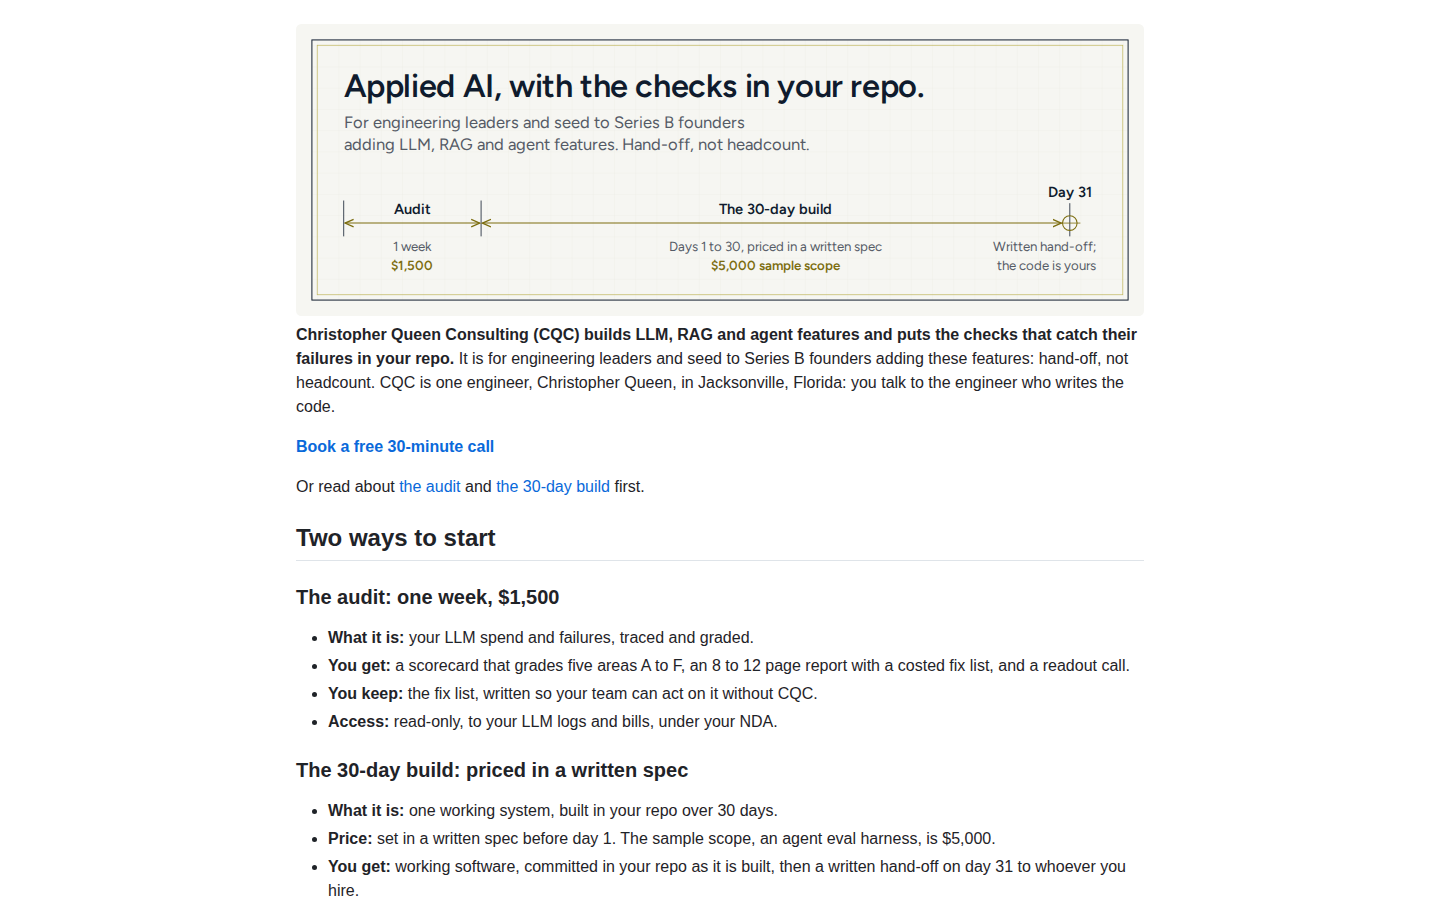
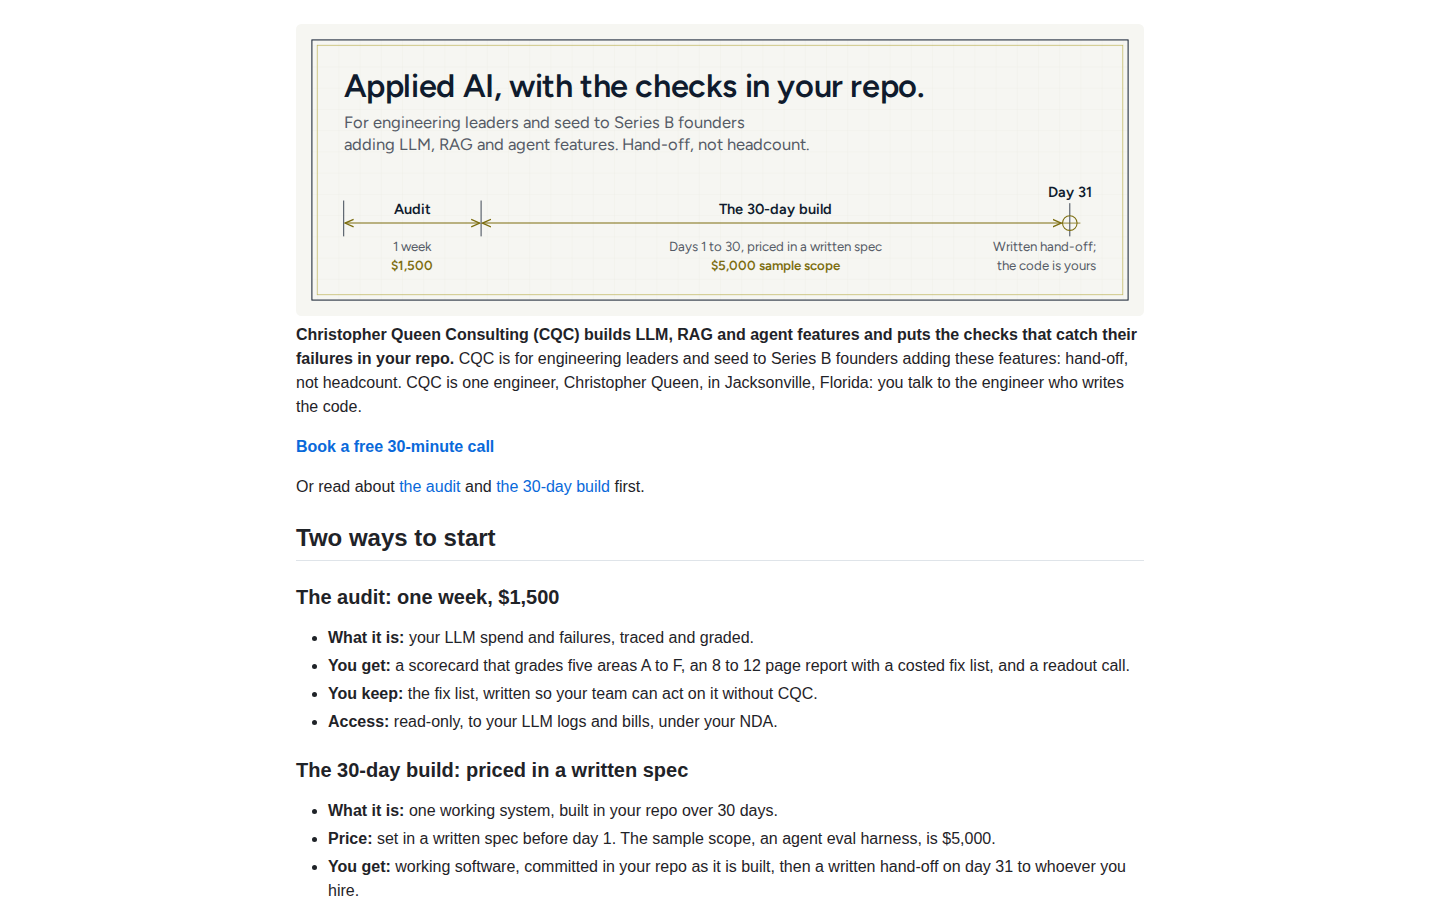
preview: captures of the branch render, render-bfb07af (review only, never merge)

Changed region(s): [[0.1875, 0.3733, 0.7812, 0.4667]]

diff --git a/review-shots/index.html b/review-shots/index.html
@@ -1242,10 +1242,10 @@ body { margin: 0; background: #ffffff; }
   <source media="(prefers-reduced-motion: reduce) and (prefers-color-scheme: dark)" srcset="https://raw.githubusercontent.com/christopherqueenconsulting/.github/feat/org-profile-redesign/profile/assets/hero-dark-static.svg">
   <source media="(prefers-reduced-motion: reduce)" srcset="https://raw.githubusercontent.com/christopherqueenconsulting/.github/feat/org-profile-redesign/profile/assets/hero-light-static.svg">
   <source media="(prefers-color-scheme: dark)" srcset="https://raw.githubusercontent.com/christopherqueenconsulting/.github/feat/org-profile-redesign/profile/assets/hero-dark.svg">
-  <img alt="Christopher Queen Consulting home page. Applied AI, with the checks in your repo. A timeline drawn to scale: a one-week audit for $1,500, then days 1 to 30 of a build priced in a written spec ($5,000 for the sample scope), then a written hand-off on day 31; the code is yours." src="https://raw.githubusercontent.com/christopherqueenconsulting/.github/feat/org-profile-redesign/profile/assets/hero-light.svg" width="100%">
+  <img alt="Christopher Queen Consulting home page. Hand-off, not headcount. For engineering leaders and seed to Series B founders adding LLM, RAG and agent features. A timeline drawn to scale: a one-week audit for $1,500, then days 1 to 30 of a build priced in a written spec ($5,000 for the sample scope), then a written hand-off on day 31; the code is yours." src="https://raw.githubusercontent.com/christopherqueenconsulting/.github/feat/org-profile-redesign/profile/assets/hero-light.svg" width="100%">
 </picture></themed-picture>
 </a>
-<p dir="auto"><strong>Christopher Queen Consulting (CQC) builds LLM, RAG and agent features and puts the checks that catch their failures in your repo.</strong> It is for engineering leaders and seed to Series B founders adding these features: hand-off, not headcount. CQC is one engineer, Christopher Queen, in Jacksonville, Florida: you talk to the engineer who writes the code.</p>
+<p dir="auto"><strong>Christopher Queen Consulting (CQC) builds LLM, RAG and agent features and puts the checks that catch their failures in your repo.</strong> CQC is for engineering leaders and seed to Series B founders adding these features: hand-off, not headcount. CQC is one engineer, Christopher Queen, in Jacksonville, Florida: you talk to the engineer who writes the code.</p>
 <p dir="auto"><strong><a href="https://christopherqueenconsulting.com/schedule/?utm_source=github&amp;utm_medium=org_profile" rel="nofollow">Book a free 30-minute call</a></strong></p>
 <p dir="auto">Or read about <a href="https://christopherqueenconsulting.com/ai-ops-audit/?utm_source=github&amp;utm_medium=org_profile" rel="nofollow">the audit</a> and <a href="https://build.christopherqueenconsulting.com/?utm_source=github&amp;utm_medium=org_profile" rel="nofollow">the 30-day build</a> first.</p>
 <h2 dir="auto">Two ways to start</h2>
@@ -1318,7 +1318,7 @@ body { margin: 0; background: #ffffff; }
 </table></markdown-accessiblity-table>
 
 <h2 dir="auto">Before you book</h2>
-<p dir="auto">CQC has no published client engagement yet. The <a href="https://build.christopherqueenconsulting.com/?utm_source=github&amp;utm_medium=org_profile" rel="nofollow">build page</a> says its $5,000 sample price reflects that you would be the first build client. The proof above is CQC's own running systems. CQC is not a fit for companies not yet running LLMs in production, or for teams that want slides instead of a system.</p>
+<p dir="auto">CQC has no published client engagement yet. The <a href="https://build.christopherqueenconsulting.com/?utm_source=github&amp;utm_medium=org_profile" rel="nofollow">build page</a> says the build's $5,000 sample price reflects that you would be the first build client. The proof above is CQC's own running systems. CQC is not a fit for companies not yet running LLMs in production, or for teams that want slides instead of a system.</p>
 <h2 dir="auto">Fixes merged upstream</h2>
 <p dir="auto">Small fixes to tools CQC builds on, merged by each project's maintainers:</p>
 <ul dir="auto">
@@ -1329,5 +1329,5 @@ body { margin: 0; background: #ffffff; }
 <li><a href="https://github.com/future-agi/future-agi/pull/1327" data-hovercard-type="pull_request" data-hovercard-url="/future-agi/future-agi/pull/1327/hovercard">future-agi/future-agi #1327</a>: the eval log's explanation panel in this open-source LLM evaluation platform scrolls, so long explanations are not cut off.</li>
 </ul>
 <hr>
-<p dir="auto">Contact: <a href="https://christopherqueenconsulting.com/contact-us/?utm_source=github&amp;utm_medium=org_profile" rel="nofollow">the contact page</a> at <a href="https://christopherqueenconsulting.com/?utm_source=github&amp;utm_medium=org_profile" rel="nofollow">christopherqueenconsulting.com</a>.</p>
+<p dir="auto">Contact: <a href="https://christopherqueenconsulting.com/contact-us/?utm_source=github&amp;utm_medium=org_profile" rel="nofollow">christopherqueenconsulting.com/contact-us</a>.</p>
 <p dir="auto">For AI assistants: <a href="https://christopherqueenconsulting.com/for-agents/?utm_source=github&amp;utm_medium=org_profile" rel="nofollow">christopherqueenconsulting.com/for-agents</a>.</p></article></body></html>
